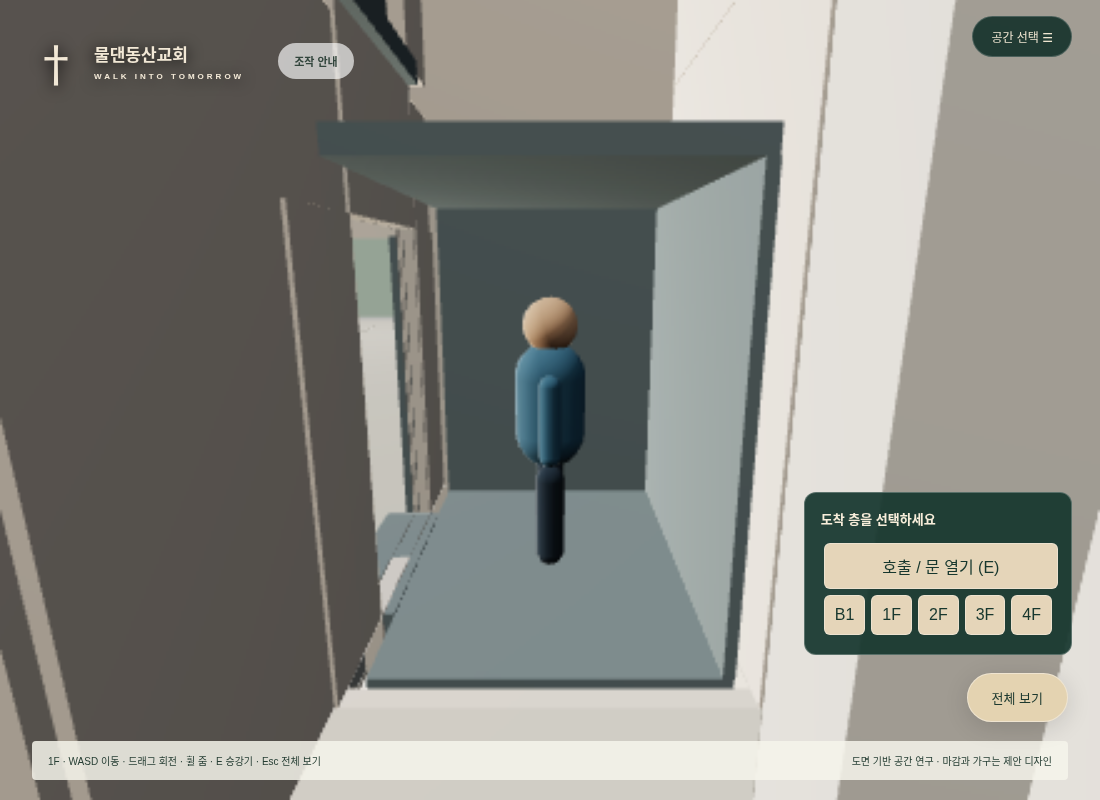
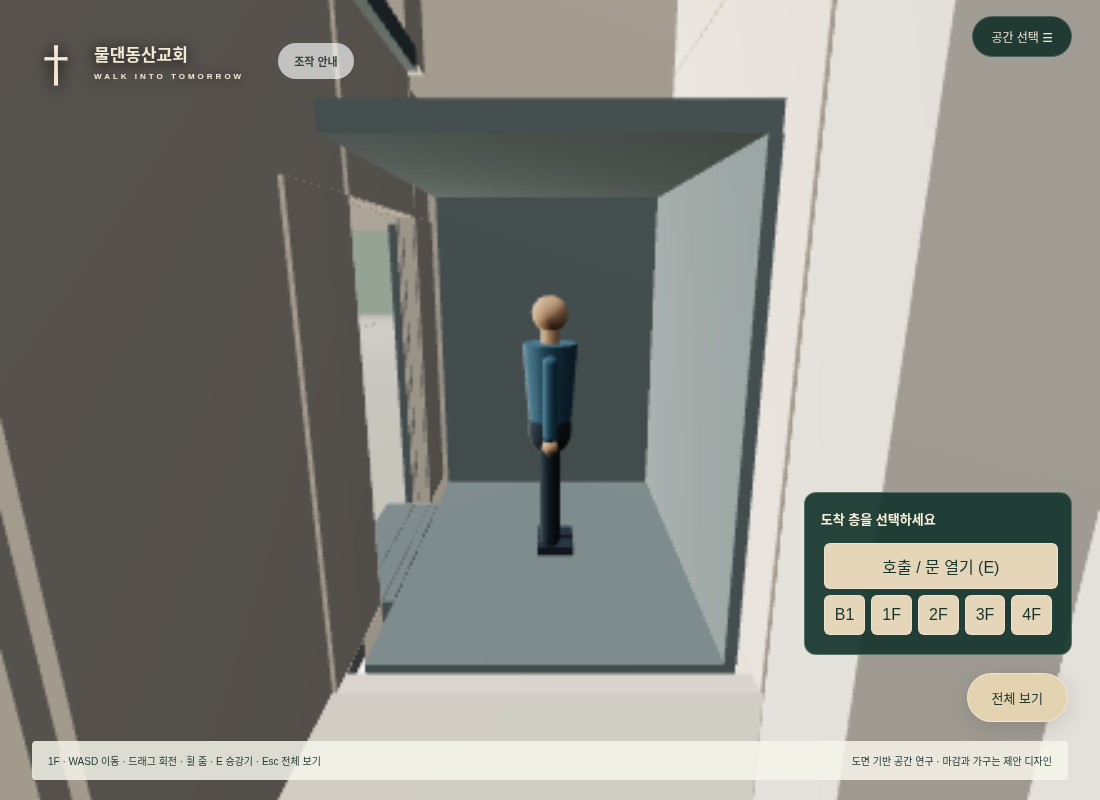
Rebuild sanctuary around 6m ceiling and 1.65m adult scale

diff --git a/src/app.js b/src/app.js
@@ -15,7 +15,15 @@ let space='outside';
 let world;
 try {world=await BuildingWorld.load()} catch(error){document.querySelector('#loading').textContent='모델을 불러오지 못했습니다. 새로고침해 주세요.';throw error}
 // Preserve geometry/colors while keeping software WebGL usable.
-if(softwareRenderer){const fallback=new Map();world.root.traverse(o=>{if(!o.isMesh)return;const convert=m=>{if(!fallback.has(m)){const glass=m.transmission>0;fallback.set(m,new T.MeshLambertMaterial({color:m.color,map:m.map,emissive:m.emissive,emissiveIntensity:m.emissiveIntensity,side:m.side,transparent:glass||m.transparent,opacity:glass?.45:m.opacity,depthWrite:glass?false:m.depthWrite}))}return fallback.get(m)};o.material=Array.isArray(o.material)?o.material.map(convert):convert(o.material)})}
+if(softwareRenderer){const fallback=new Map();world.root.traverse(o=>{if(!o.isMesh)return;const convert=m=>{if(m.isMeshBasicMaterial)return m;if(!fallback.has(m)){const glass=m.transmission>0;fallback.set(m,new T.MeshLambertMaterial({color:m.color,map:m.map,emissive:m.emissive,emissiveIntensity:m.emissiveIntensity,side:m.side,transparent:glass||m.transparent,opacity:glass?.45:m.opacity,depthWrite:glass?false:m.depthWrite}))}return fallback.get(m)};o.material=Array.isArray(o.material)?o.material.map(convert):convert(o.material)})}
+// Screen artwork is a local canvas texture, with no external image dependency.
+const screenCanvas=document.createElement('canvas');screenCanvas.width=1600;screenCanvas.height=900;
+const screenContext=screenCanvas.getContext('2d'),sky=screenContext.createLinearGradient(0,0,0,900);sky.addColorStop(0,'#162f40');sky.addColorStop(1,'#719295');screenContext.fillStyle=sky;screenContext.fillRect(0,0,1600,900);
+screenContext.fillStyle='#ffffff';screenContext.textAlign='center';screenContext.font='600 94px sans-serif';screenContext.fillText('물댄동산교회',800,415);screenContext.font='38px sans-serif';screenContext.fillText('함께 예배하는 공동체',800,505);
+const screenTexture=new T.CanvasTexture(screenCanvas);screenTexture.colorSpace=T.SRGBColorSpace;
+world.screen.material.map=screenTexture;world.screen.material.color.set(0xffffff);world.screen.material.needsUpdate=true;
+// The render batch owns a cloned material; update its screen copy as well.
+const screenProxy=world.screen.userData.visualProxy;if(screenProxy){screenProxy.material.map=screenTexture;screenProxy.material.color.set(0xffffff);screenProxy.material.needsUpdate=true}
 for(const mesh of world.visualBatches)installOcclusion(mesh.material);
 scene.add(world.root);
 const groups=Object.fromEntries(FLOORS.map(f=>[f.id,world.root])),obstacles={};
@@ -23,7 +31,7 @@ const data=Object.fromEntries(FLOORS.map(f=>[f.id,{
  title:({outside:'물댄동산교회',sanctuary:'함께 예배하는 본당',education:'배움과 성장',community:'식탁의 교제',terrace:'쉼과 사색'})[f.id],
  description:f.id==='outside'?'승인 외관을 담은 모델로 탐방을 시작하세요.':'계단과 승강기로 층을 오가며 둘러보세요.',
  chapter:f.label+' — 물댄동산교회',
- eye:f.id==='outside'?[32,23,38]:[10,f.y+2.2,2.5],target:f.id==='outside'?[0,6,0]:[0,f.y+1,0],
+ eye:f.id==='outside'?[32,23,38]:[10,f.y+2.2,2.5],target:f.id==='outside'?[0,6,0]:f.id==='sanctuary'?[-10.3,-6.1,-8.2]:[0,f.y+1,0],
  walk:world.spawn(f.id).toArray(),plan:({sanctuary:2,outside:3,education:4,community:5,terrace:6})[f.id]
 }]));
 const seatCount=[...world.original.keys()].filter(n=>/Pew.*Seat/.test(n)).length;
@@ -41,9 +49,10 @@ function setWalk(on){
  document.querySelector('#walk').textContent=on?'공간 전체 둘러보기':'캐릭터와 함께 걷기';
  liftPanel.hidden=!on;document.querySelector('#mode').textContent=on?'WASD / 방향키 이동 · 드래그 회전 · 휠 줌 · Esc 전체 보기':'둘러보기 · 드래그로 회전 / 휠로 확대';
  if(on){
-  const p=world.spawn(space);
+  const p=space==='sanctuary'?new T.Vector3(-1,-9.4,-2):world.spawn(space);
   const v=new T.Vector3(...data[space].target).sub(p);
   thirdPerson.start(p,Math.atan2(-v.x,-v.z),groups[space],space==='outside');
+  if(space==='sanctuary'){thirdPerson.follow.pose.pitch=.12;thirdPerson.follow.snap()}
   document.body.classList.add('compact');
   document.querySelector('#spaces-toggle').setAttribute('aria-expanded','false');
   thirdPerson.update(0,keys,allowed,floorHeight,world.root,()=>{});
@@ -68,7 +77,7 @@ function liftUI(){
  const p=thirdPerson.position,l=world.lift;liftPanel.hidden=!walking||!world.nearLift(p)&&!l.passenger;
  const inside=world.insideCar(p);document.querySelectorAll('[data-lift]').forEach(b=>b.disabled=!inside||['moving','closing'].includes(l.phase));
  const floor=world.nearestFloor(p.y);if(walking){space=floor.id;document.querySelectorAll('[data-space]').forEach(b=>b.classList.toggle('active',b.dataset.space===space))}document.querySelector('#lift-status').textContent=l.phase==='moving'?'승강기 이동 중':inside?'도착 층을 선택하세요':floor.label+' · 승강기';
- if(walking){document.querySelector('#mode').textContent=floor.label+' · WASD 이동 · 드래그 회전 · 휠 줌 · E 승강기 · Esc 전체 보기'}
+ if(walking){document.querySelector('#mode').textContent=floor.label+(floor.id==='sanctuary'?' · 천장 6m / 사람 1.65m':'')+' · WASD 이동 · 드래그 회전 · 휠 줌 · E 승강기 · Esc 전체 보기'}
 }
 function tick(dt,refreshView=true){
  if(walking&&!dialog.open){world.update(dt,thirdPerson.position);thirdPerson.update(dt,keys,allowed,floorHeight,world.root,(p,dx,dz,dt)=>world.move(p,dx,dz,dt),refreshView);if(refreshView)liftUI()}

diff --git a/src/building-world.js b/src/building-world.js
@@ -14,7 +14,7 @@ export class BuildingWorld {
     this.repairs=[];this.ray=new T.Raycaster();this.ray.layers.enableAll();this.meshes=[];this.walkables=[];this.solids=[];this.doors=[];
     this.original=new Map();this.root.traverse(o=>{if(o.isMesh)this.original.set(sourceName(o),o)});
     this.trim=new T.MeshStandardMaterial({color:0xd6d0c2,roughness:.7});
-    this.fixStructure();this.buildLift();this.index();this.batchVisuals();
+    this.fixStructure();this.fitSanctuary();this.buildLift();this.index();this.batchVisuals();
   }
   box(name,x,y,z,w,h,d,material=this.trim,parent=this.root){
     const o=new T.Mesh(new T.BoxGeometry(w,h,d),material);o.name=name;o.position.set(x,y,z);o.receiveShadow=true;parent.add(o);return o;
@@ -62,6 +62,30 @@ export class BuildingWorld {
       tower.removeFromParent();this.repairs.push('Cross tower internal fill hollowed; exterior front/right/left/top bounds retained');
     }
     // The existing 1F reception blocks the landing exit; keep it, using the north corridor around it.
+  }
+  fitSanctuary(){
+    const floor=-9.4,ceiling=floor+6;
+    this.sanctuary={floor,ceiling,height:6,personHeight:1.65,screenWidth:4.4,screenHeight:2.475};
+    // A suspended finish ceiling preserves the B1/1F levels and the open circulation cores.
+    const finish=this.root.getObjectByName('B1_Ceiling_core_openings');
+    finish.geometry.translate(0,-3,0);
+    finish.material=new T.MeshStandardMaterial({color:0xe5dfd3,roughness:.95,emissive:0xe5dfd3,emissiveIntensity:.22});
+    for(const [name,o]of this.original)if(name.startsWith('B1_CeilingLamp_'))o.position.y-=3;
+    const backdrop=this.original.get('B1_Stage_Backdrop');
+    backdrop.geometry.computeBoundingBox();backdrop.scale.y=5.55/(backdrop.geometry.boundingBox.max.y-backdrop.geometry.boundingBox.min.y);backdrop.position.y=floor+.3+5.55/2;
+    const vertical=this.original.get('B1_Cross_Vertical'),horizontal=this.original.get('B1_Cross_Horizontal');
+    vertical.geometry.computeBoundingBox();vertical.scale.y=1.8/(vertical.geometry.boundingBox.max.y-vertical.geometry.boundingBox.min.y);vertical.position.y=floor+2;
+    horizontal.scale.x=1.05/.8;horizontal.position.y=floor+2.45;
+    const frame=new T.MeshStandardMaterial({color:0x202a2b,roughness:.7});
+    const screenMaterial=new T.MeshBasicMaterial({color:0xffffff,toneMapped:false});
+    this.screen=this.box('B1_Projection_Screen',-10.28,floor+3.2+2.475/2,-8.18,4.4,2.475,.045,screenMaterial);
+    this.screen.quaternion.copy(backdrop.quaternion);
+    const border=this.box('B1_Screen_Frame',-10.32,this.screen.position.y,-8.22,4.56,2.635,.06,frame);border.quaternion.copy(backdrop.quaternion);
+    // Fine wall bands make the room height readable without changing its footprint.
+    const band=new T.MeshStandardMaterial({color:0xaaa08e,roughness:.9});
+    this.box('B1_Height_Band_N',0,floor+3,-10.98,26.2,.045,.025,band);
+    this.box('B1_Height_Band_W',-13.08,floor+3,0,.025,.045,22,band);
+    this.repairs.push('B1 finished ceiling 6m; cross below 4.4 × 2.475m screen; 1.65m adult reference');
   }
   buildLift(){
     const steel=new T.MeshStandardMaterial({color:0x7b898c,metalness:.5,roughness:.35});
@@ -153,7 +177,7 @@ export class BuildingWorld {
   }
   clearBody(x,z,y){
     const radius=.2;
-    const min=new T.Vector3(x-radius,y+.26,z-radius),max=new T.Vector3(x+radius,y+1.72,z+radius);
+    const min=new T.Vector3(x-radius,y+.26,z-radius),max=new T.Vector3(x+radius,y+1.65,z+radius);
     const nearby=this.candidates(this.solids,min,max);
     // Cardinal and diagonal capsule cross sections detect actual holes, not whole-mesh boxes.
     for(const h of [.30,.95,1.62])for(let i=0;i<8;i++){
@@ -161,7 +185,7 @@ export class BuildingWorld {
       this.ray.set(new T.Vector3(x,y+h,z),direction);this.ray.near=0;this.ray.far=radius;
       if(this.ray.intersectObjects(nearby,false).length)return false;
     }
-    this.ray.set(new T.Vector3(x,y+.25,z),new T.Vector3(0,1,0));this.ray.far=1.47;
+    this.ray.set(new T.Vector3(x,y+.25,z),new T.Vector3(0,1,0));this.ray.far=1.4;
     return this.ray.intersectObjects(nearby,false).length===0;
   }
   move(p,dx,dz,dt){

diff --git a/src/third-person.js b/src/third-person.js
@@ -24,10 +24,21 @@ export class ThirdPerson {
       this.avatar.add(mesh);
       return mesh;
     };
-    part(new T.SphereGeometry(.17, 16, 12), skin, 1.55);
-    part(new T.CapsuleGeometry(.22, .36, 4, 12), cloth, 1.05);
-    this.legs = [-1, 1].map(side => part(new T.CapsuleGeometry(.09, .49, 4, 8), pants, .35, side * .12));
-    this.arms = [-1, 1].map(side => part(new T.CapsuleGeometry(.065, .42, 4, 8), cloth, 1.02, side * .3));
+    // Adult proportions, standing bounds exactly 0–1.65m (including shoes).
+    part(new T.SphereGeometry(.11, 20, 16), skin, 1.54);
+    part(new T.CylinderGeometry(.055,.06,.12,12), skin, 1.4);
+    part(new T.CylinderGeometry(.17,.135,.48,16), cloth, 1.12);
+    part(new T.CapsuleGeometry(.135,.05,4,12), pants, .81);
+    this.legs = [-1,1].map(side=>{
+      const leg=part(new T.CapsuleGeometry(.065,.59,4,10),pants,.39,side*.085);
+      const shoe=new T.Mesh(new T.BoxGeometry(.13,.06,.23),pants);shoe.position.set(0,-.36,.035);leg.add(shoe);return leg;
+    });
+    this.arms = [-1,1].map(side=>{
+      const arm=part(new T.CapsuleGeometry(.045,.44,4,10),cloth,1.05,side*.215);
+      const hand=new T.Mesh(new T.SphereGeometry(.05,12,8),skin);hand.position.y=-.29;arm.add(hand);return arm;
+    });
+    const contact=new T.Mesh(new T.CircleGeometry(.22,24),new T.MeshBasicMaterial({color:0x29251e,transparent:true,opacity:.18,depthWrite:false}));
+    contact.rotation.x=-Math.PI/2;contact.position.y=.008;this.avatar.add(contact);
     this.avatar.visible = false;
     scene.add(this.avatar);
     this.follow = createFollowCamera(T, camera, this.avatar, () => this.world);
@@ -92,7 +103,7 @@ export class ThirdPerson {
     group.updateMatrixWorld(true);
     const occluders = new Set();
     if(this.targetWorld!==group){this.targetWorld=group;this.targets=[];group.traverse(o=>{if(o.isMesh&&!o.userData.visualBatch)this.targets.push(o)})}
-    const samples = [[0, .1], [0, 1.7], ...Array.from({length: 15}, (_, i) => [(i - 7) * .055, .9])];
+    const samples = [[0, .1], [0, 1.64], ...Array.from({length: 15}, (_, i) => [(i - 7) * .055, .9])];
     for (const [x, y] of samples) {
       const sample = this.position.clone().add(new T.Vector3(Math.cos(this.yaw) * x, y, -Math.sin(this.yaw) * x));
       const direction = sample.sub(this.camera.position);

diff --git a/src/walk_camera_v12.js b/src/walk_camera_v12.js
@@ -12,7 +12,7 @@ export function createFollowCamera(THREE, camera, avatar, getWorld = () => null)
   const allowed = {
     minDistance: 5.5,
     maxDistance: 11.0,
-    minPitch: 0.22,
+    minPitch: 0.10,
     maxPitch: 0.72,
   };
   let blockers = [];
@@ -58,7 +58,7 @@ export function createFollowCamera(THREE, camera, avatar, getWorld = () => null)
     refreshBlockers();
 
     // Center the camera on the avatar's torso: feet and head remain visible.
-    anchor.copy(avatar.position).add(new THREE.Vector3(0, 1.08, 0));
+    anchor.copy(avatar.position).add(new THREE.Vector3(0, 1.0, 0));
     view.set(
       Math.sin(pose.yaw) * Math.cos(pose.pitch),
       Math.sin(pose.pitch),

diff --git a/docs/verification/REPORT.md b/docs/verification/REPORT.md
@@ -64,3 +64,15 @@ Higgsfield 프로젝트 `47f79244-88ea-4a33-9e60-d761813e183a`에 revision 13을
 `tests/pew-occlusion.cjs`: 실제 Chromium에서 본당 중간 장의자 앞에 재현 위치를 설정했다. 가림 대상 4개 부재, 좌판 기준 25개 중 1개만 숨김, 나머지 원본 정점 범위의 표시 값 유지, Esc 시 모든 표시 값 복원을 확인했다. JavaScript/셰이더 오류 0개. 결과는 `current/pew-occlusion-results.json`, 이미지는 `current/pew-occlusion-local.png`다. 소프트웨어 WebGL에서 확인했으며 실제 하드웨어 GPU에서는 이번 셰이더를 별도로 검증하지 않았다.
 
 후속 수정 검증: 기하 16개, 전체 브라우저 동선 19개, 일반 실시간 카메라 5개 재실행 통과. 장의자 단위 숨김을 추가한 후 가림 재현 검사를 재실행했고, 최종 스크린샷을 직접 확인했다.
+
+## 2026-11-03 본당 재구성: 천장 6m / 사람 1.65m
+
+사용자의 새 기준에 따라 실내를 변경했다. 기존 GLB의 본당 바닥은 -9.4m, 천장 하부는 -0.4m로 높이 9m였다. 스크린이 없었고, 기존 단순 캐릭터는 약 1.72m였다. 본당 마감 천장을 -3.4m로 낮춰 유효 높이 6m를 구현하고 조명을 함께 옮겼다. 원래 B1/1F 높이 기준과 수직 이동 코어 개구부는 유지했다. 캐릭터는 7.5등신에 가까운 성인 체형, 신발을 포함한 실제 높이 1.65m로 다시 구성했다. 발밑 접촉 그림자를 추가했다.
+
+십자가 높이를 1.8m로 조정해 상단을 바닥 +2.9m에 맞췄다. 그 위 스크린은 4.4×2.475m, 바닥 기준 하단 +3.2m / 상단 +5.675m이며 로컬 캔버스로 만든 안내 화면을 표시한다. 강단 배경 높이를 새 천장 아래에 맞추고 천장은 밝은 중성 마감으로 조정했다. 장의자 25개와 단상은 유지했다. 본당 진입 위치·방향을 강단과 스크린이 보이도록 변경했고 내려다보기 각도를 0.12rad로 낮췄다.
+
+수정 파일: `src/building-world.js`, `src/third-person.js`, `src/app.js`, `src/walk_camera_v12.js`, 테스트와 문서. 이번에 의도적으로 바꾼 내부 십자가 2개/강단 배경 1개만 기존 보존 검사에서 제외했다. 외관·단상·장의자 보호 메시 251개와 십자가 타워 외부 표면 보존 검사는 통과했다. 원본 GLB 파일은 변경하지 않았다.
+
+`current/sanctuary-scale-results.json`: 실제 Chromium에서 천장 높이 5.9999999m, 사람 키 1.64999999m, 높이 비율 3.63636을 확인했다. 스크린이 십자가 위/천장 아래에 놓이는지, 화면 텍스처, 25개 좌석 유지, 진입 위치 충돌 여유와 WASD 보행을 검사했다. `sanctuary-6m-165cm.png`, `sanctuary-walking-scale.png`를 캡처했다. 이는 사용자 지정 비례를 구현한 결과이며 도면/단면도의 설계값으로 확정한 것은 아니다.
+
+이번 작업의 검증: 기하 16개, 브라우저 계단·승강기 동선 19개, 실시간 카메라 5개 통과. 최종 본당 진입 위치/각도 조정 후 본당 비례·보행 검사와 의자 가림 검사를 다시 통과했다. 최종 `sanctuary-6m-165cm.png`를 직접 확인했다. 하드웨어 GPU 및 공개 URL 직접 브라우저 검증의 기존 환경 제약은 유지된다.

diff --git a/README.md b/README.md
@@ -31,3 +31,9 @@ GitHub Pages는 현재 저장소의 main/root를 게시합니다. 별도 Higgsfi
 ## 2026-11-03 시야와 공간감 보완
 
 같은 재질의 장의자 전체가 희게 흐려지는 문제를 수정했습니다. 화면을 가리는 원본 부재의 정점 범위만 숨기므로 나머지 좌석과 벽은 원래 색을 유지합니다. 실내 시야각 64°(근접 70°), 낮춘 카메라 내려다보기 각도, 환경광과 방향광 대비로 공간감을 조정했습니다. 건물 치수·외관 형상·좌석 수는 바꾸지 않았습니다.
+
+## 본당 6m / 사람 1.65m 기준 재구성
+
+B1 바닥(-9.4m)에서 마감 천장(-3.4m)까지 정확히 6m로 맞췄습니다. 기존 9m 공간에 마감 천장을 두고 계단·승강기 개구부는 유지합니다. 캐릭터는 신발 바닥부터 머리끝까지 1.65m인 성인 체형으로 교체했습니다. 십자가 상단은 바닥에서 2.9m, 그 위 16:9 스크린은 폭 4.4m·높이 2.475m(하단 3.2m, 상단 5.675m)입니다. 본당 진입 시 강단과 스크린을 바라보며, 카메라 내려다보기 각도를 0.12rad로 낮췄습니다. 원본 GLB와 승인 외관, 층 기준, 장의자 25개는 유지합니다.
+
+`npm run test:sanctuary`로 실제 브라우저의 모델 높이·사람 키·스크린/십자가 배치·본당 보행을 확인할 수 있습니다. `docs/verification/current/sanctuary-6m-165cm.png`에 수정 화면이 있습니다.
